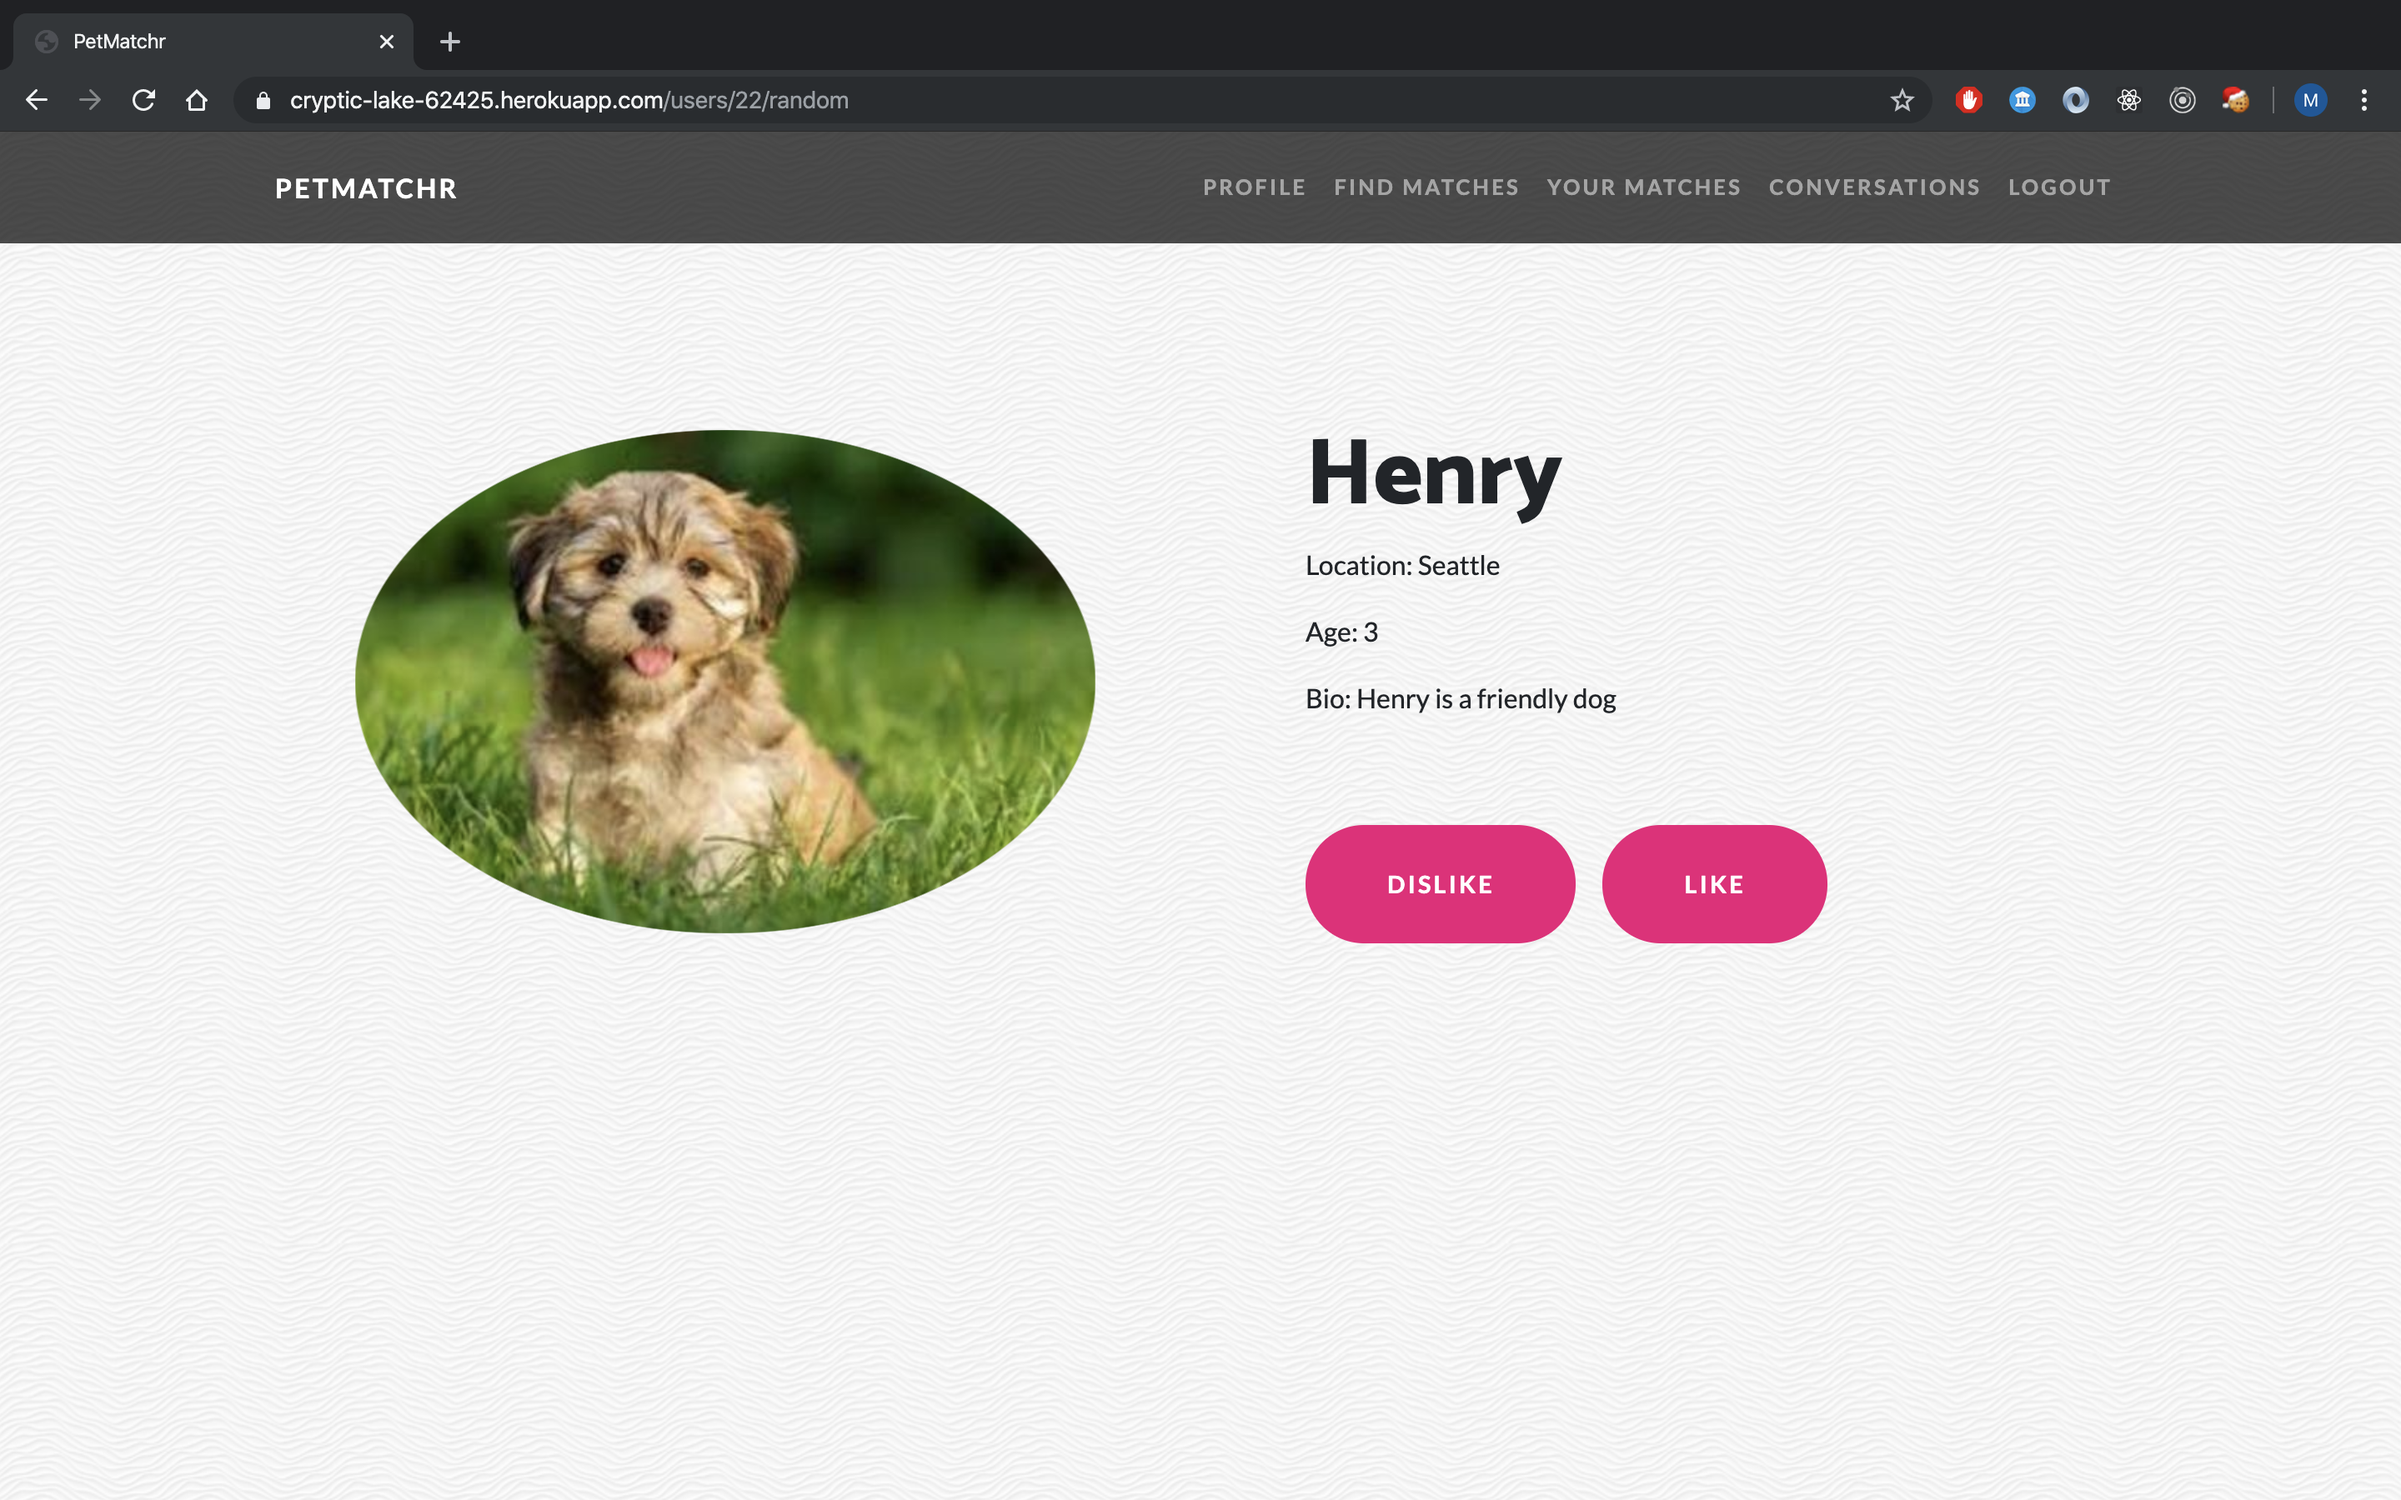
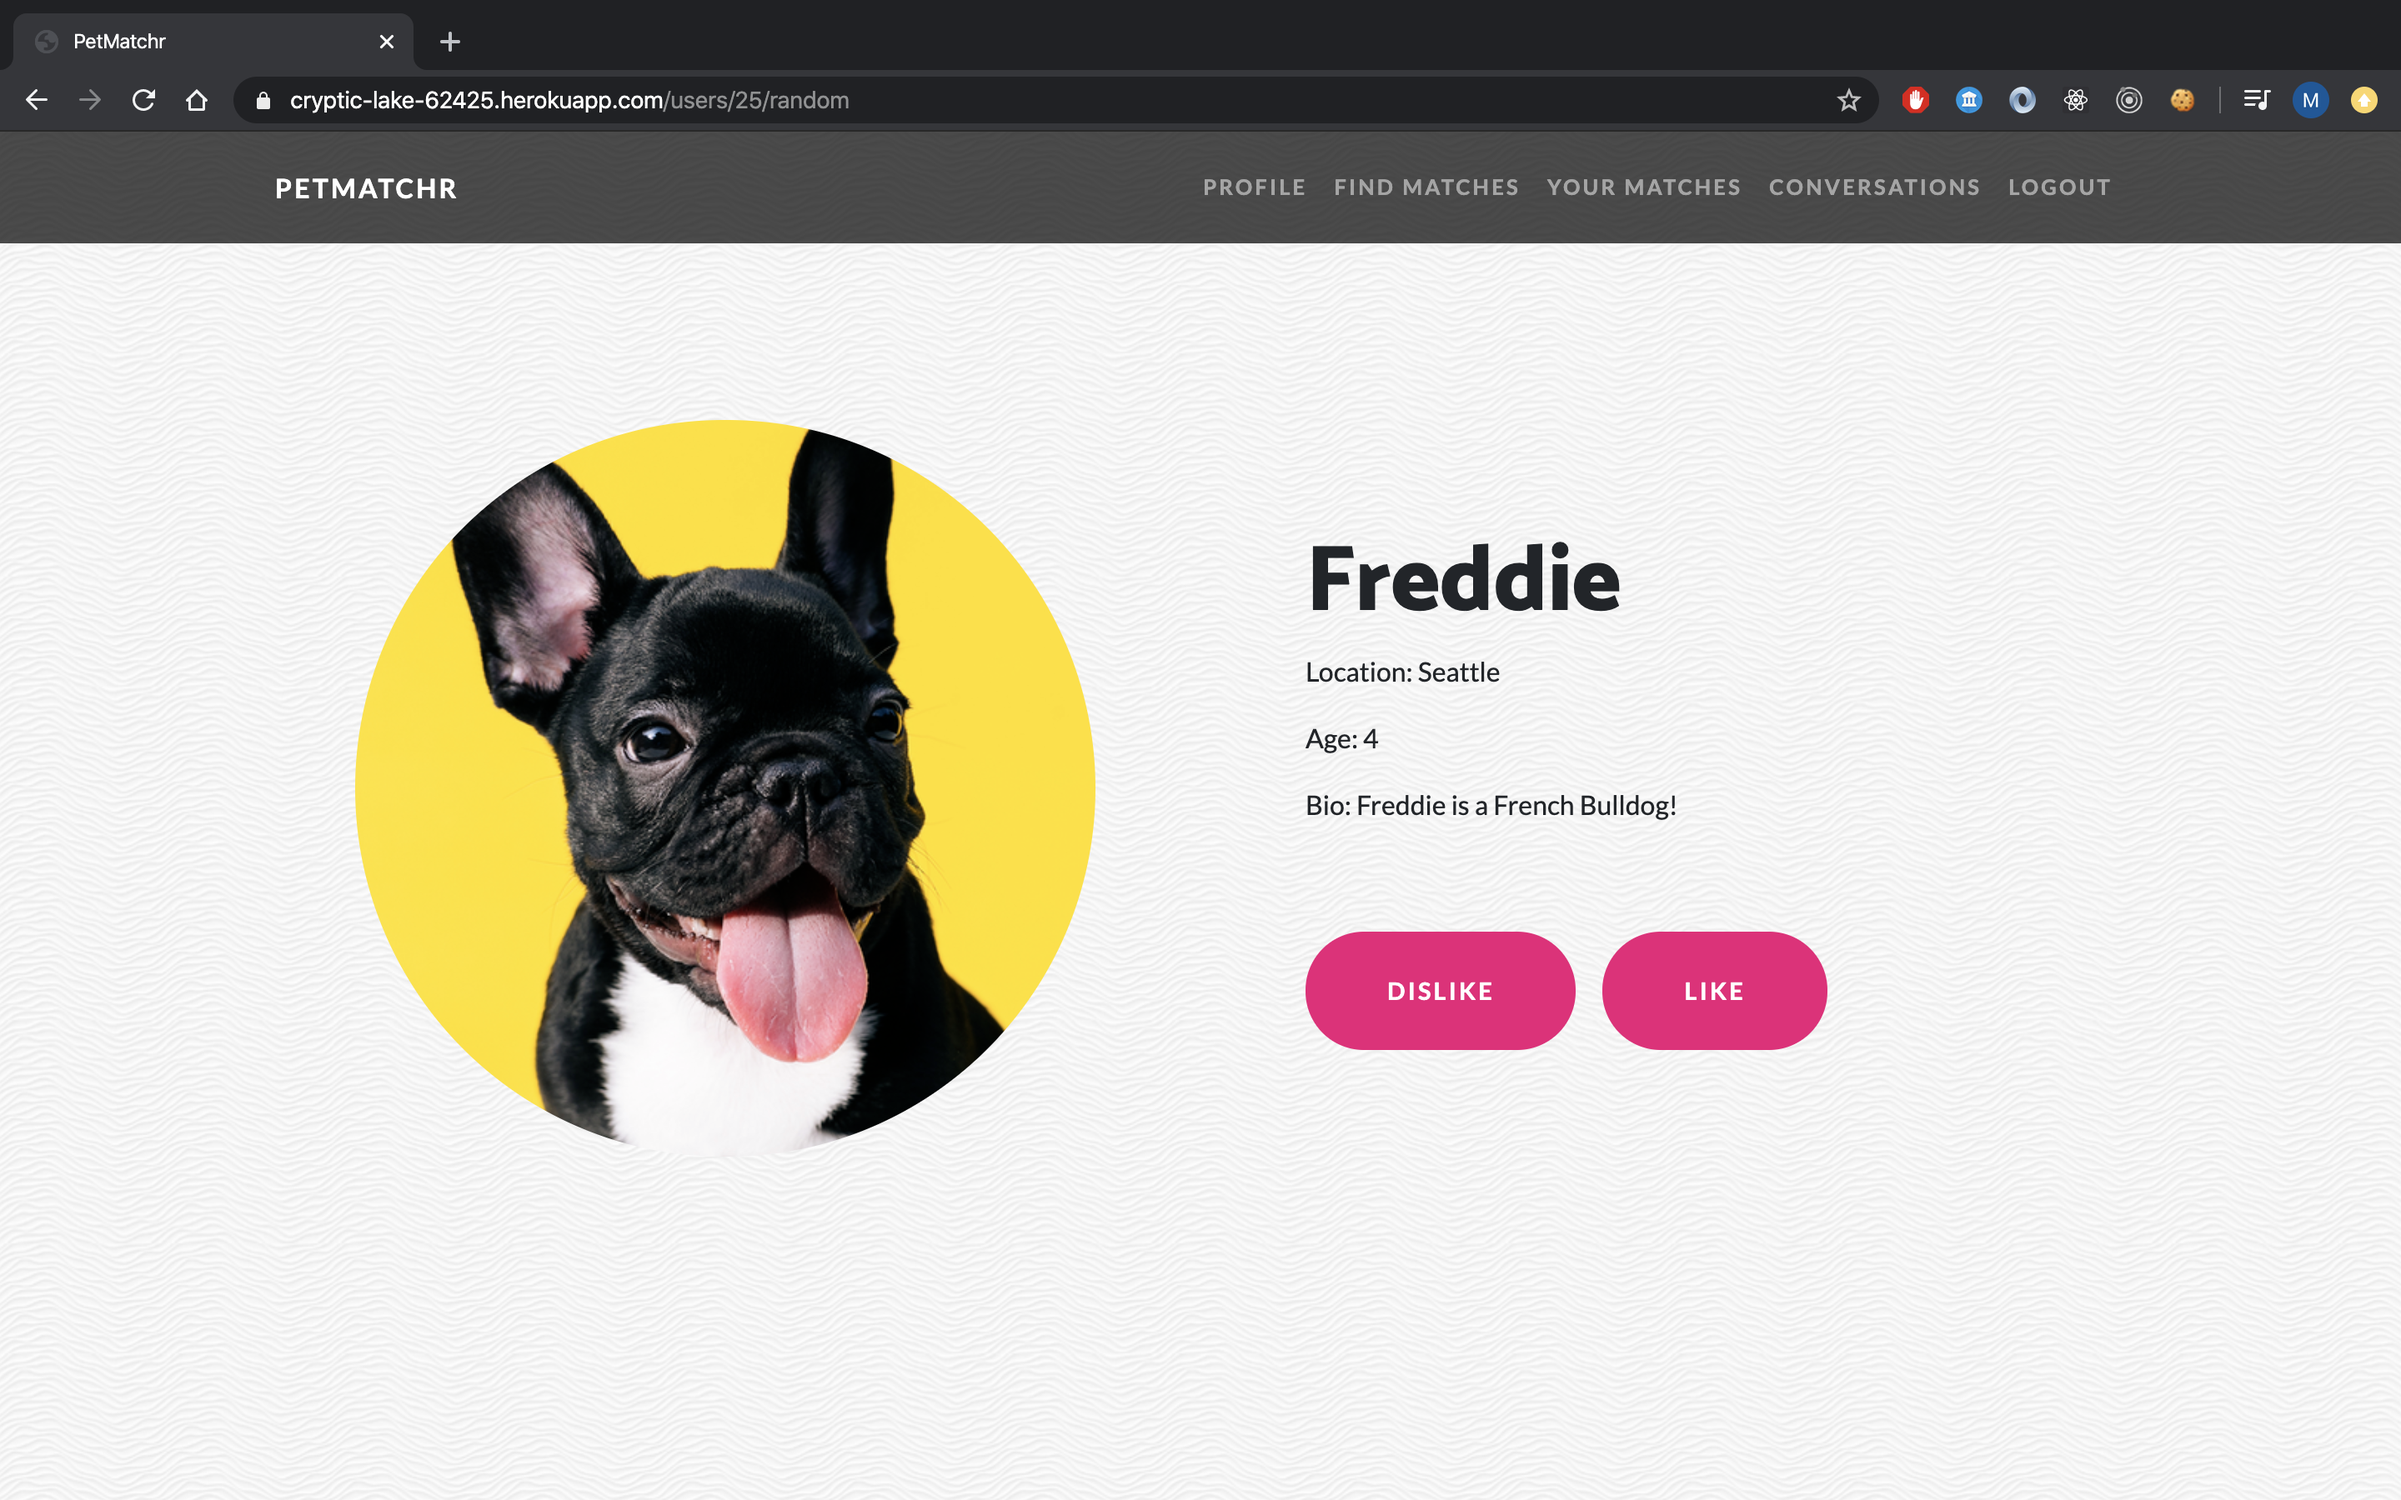
pet carousel images

diff --git a/index.html b/index.html
@@ -260,7 +260,44 @@
 				  		</button>
 					</div>
 					<div class="modal-body">
-				  	...
+						<div id="petCarousel" class="carousel slide" data-ride="carousel">
+							<ol class="carousel-indicators">
+								<li data-target="#petCarousel" data-slide-to="0" class="active"></li>
+								<li data-target="#petCarousel" data-slide-to="1"></li>
+								<li data-target="#petCarousel" data-slide-to="2"></li>
+								<li data-target="#petCarousel" data-slide-to="3"></li>
+								<li data-target="#petCarousel" data-slide-to="4"></li>
+								<li data-target="#petCarousel" data-slide-to="5"></li>
+							</ol>
+							<div class="carousel-inner">
+							  	<div class="carousel-item active">
+									<img class="d-block w-100" src="assets/img/projects/PetMatchr3.png" alt="First slide">
+							 	</div>
+							 	<div class="carousel-item">
+									<img class="d-block w-100" src="assets/img/projects/PetMatchr4.png" alt="Second slide">
+								</div>
+								<div class="carousel-item">
+									<img class="d-block w-100" src="assets/img/projects/PetMatchr2.png" alt="Third slide">
+								</div>
+								<div class="carousel-item">
+									<img class="d-block w-100" src="assets/img/projects/PetMatchr5.png" alt="Fourth slide">
+								</div>
+								<div class="carousel-item">
+									<img class="d-block w-100" src="assets/img/projects/PetMatchr6.png" alt="Fifth slide">
+								</div>
+								<div class="carousel-item">
+									<img class="d-block w-100" src="assets/img/projects/PetMatchr7.png" alt="Sixth slide">
+							  	</div>
+							</div>
+							<a class="carousel-control-prev" href="#petCarousel" role="button" data-slide="prev">
+							  	<span class="carousel-control-prev-icon" aria-hidden="true"></span>
+							  	<span class="sr-only">Previous</span>
+							</a>
+							<a class="carousel-control-next" href="#petCarousel" role="button" data-slide="next">
+							  	<span class="carousel-control-next-icon" aria-hidden="true"></span>
+							  	<span class="sr-only">Next</span>
+							</a>
+						</div>
 					</div>
 					<div class="modal-footer">
 						<a class="btn btn-primary btn-link-1" href="https://github.com/mshin1995/Pet_Match_App" target="_blank"><i class="fab fa-github"></i></i> Github</a>
